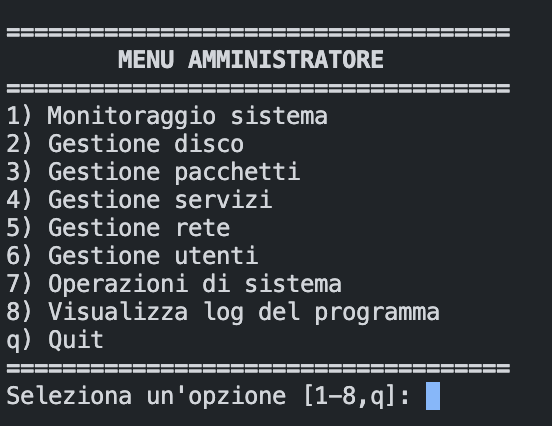
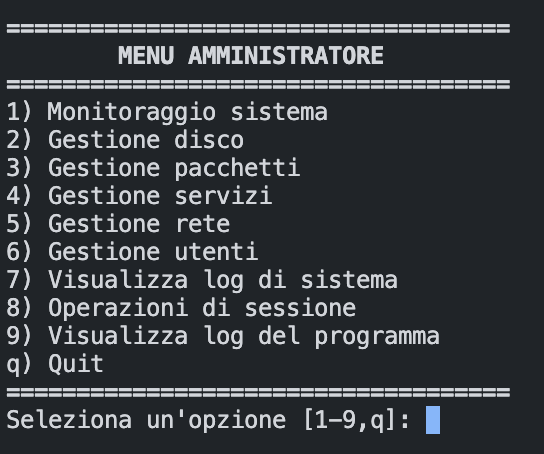
Update Nicola

Changed region(s): [[0.0, 0.0305, 0.9375, 0.8239], [0.0, 0.8545, 0.9375, 0.9765]]

diff --git a/README.md b/README.md
@@ -126,17 +126,23 @@ Le schermate principali includono:
     4) *Visualizza stato rete*: consente di visualizzare lo stato delle interfacce di rete (`netstat`).
     5) *Visualizza servizi attivi*: consente di visualizzare i servizi attivi e il loro stato (`systemctl list-units --type=service --state=running --no-pager`).
     6) *Visualizza utenti connessi*: consente di visualizzare gli utenti connessi al sistema (`who`).
-- `operazioni_di_sistema.bash`: Schermata per le operazioni di sistema, che consente di eseguire operazioni come il riavvio, lo spegnimento e la gestione dei file di log.
-    1) *Visualizza log sistema*: consente di visualizzare i log di sistema (`tail -f /var/log/syslog`).
-    2) *Visualizza log accesso*: consente di visualizzare i log degli accessi al sistema (`tail -f /var/log/auth.log`).
-    3) *Visualizza log errori*: consente di visualizzare i log degli errori del sistema (`tail -f /var/log/kern.log`).
-    4) *Visualizza log sicurezza*: consente di visualizzare i log di sicurezza del sistema (`tail -f /var/log/secure`).
-    5) *Visualizza log rete*: consente di visualizzare i log della rete (`tail -n 50 /var/log/messages`).
-    6) *Visualizza log pacchetti*: consente di visualizzare i log dei pacchetti (`tail -n 50 /var/log/apt/history.log`).
-    7) *Visualizza log applicazioni*: consente di visualizzare i log delle applicazioni (`tail -n 50 /var/log/daemon.log`).
-    8) *Spegni/riavvia sistema*: consente di spegnere o riavviare il sistema:
-        - Spegnimento: `shutdown`
-        - Riavvio: `shutdown`
+- `operazioni_di_sistema.bash`: Schermata per le operazioni di sistema, che consente di eseguire operazioni come il riavvio, lo spegnimento e la gestione dei file di log. Si suddivide in due sezioni:
+    - *operazioni di log*: consente di visualizzare i log di sistema e degli accessi, con la possibilità di filtrare per tipo di log.
+        1) *Visualizza log sistema*: consente di visualizzare i log di sistema (`tail -f /var/log/syslog`).
+        2) *Visualizza log accesso*: consente di visualizzare i log degli accessi al sistema (`tail -f /var/log/auth.log`).
+        3) *Visualizza log kernel*: consente di visualizzare i log degli errori del sistema (`tail -f /var/log/kern.log`).
+        4) *Visualizza log sicurezza*: consente di visualizzare i log di sicurezza del sistema (`tail -f /var/log/secure`).
+        5) *Visualizza log rete*: consente di visualizzare i log della rete (`tail -n 50 /var/log/messages`).
+        6) *Visualizza log pacchetti*: consente di visualizzare i log dei pacchetti (`tail -n 50 /var/log/apt/history.log`).
+        7) *Visualizza log applicazioni*: consente di visualizzare i log delle applicazioni (`tail -n 50 /var/log/daemon.log`).
+    - *operazioni di sistema*: consente di eseguire operazioni di spegnimento e riavvio del sistema.
+        1) *Spegni sistema*: consente di spegnere il sistema (`shutdown now`).
+        2) *Riavvia sistema*: consente di riavviare il sistema (`reboot`).
+        3) *Sospendi sistema*: consente di sospendere il sistema (`systemctl suspend`).
+        4) *Iberna sistema*: consente di ibernare il sistema (`systemctl hibernate`).
+        5) *Sospendi e iberna sistema*: consente di sospendere e ibernare il sistema (`systemctl hybrid-sleep`).
+        6) *Blocca sessione*: consente di bloccare il sistema (`loginctl lock-session`).
+        7) *Disconnetti utente corrente*: consente di disconnettere l'utente corrente (`loginctl --terminate-user`).
 
 ## **Esecuzione script**
 
@@ -155,6 +161,7 @@ Pacchetti utilizzati all'interno del programma:
 - `ifconfig`: Per visualizzare e configurare le interfacce di rete.
 - `iftop`: Per monitorare il traffico di rete in tempo reale.
 - `ip`: Per visualizzare e configurare le interfacce di rete.
+- `loginctl`: Per gestire le sessioni degli utenti e le operazioni di sistema.
 - `mkfs.ext4`: Per formattare le partizioni in ext4.
 - `netstat`: Per visualizzare le connessioni di rete.
 - `ping`: Per testare la connettività di rete.
@@ -175,7 +182,7 @@ Assicurarsi di avere installato i seguenti pacchetti sul sistema:
 ```bash
 sudo apt update
 sudo apt upgrade
-sudo apt install -y apt bash cut chage chmod chpasswd df fdisk free fsck ifconfig iftop ip mkfs.ext4 netstat ping reboot rsync systemctl shutdown tail top ufw useradd userdel usermod who
+sudo apt install -y apt bash cut chage chmod chpasswd df fdisk free fsck ifconfig iftop ip mkfs.ext4 netstat ping reboot rsync systemctl shutdown tail top ufw useradd userdel usermod who loginctl
 ```
 Questi pacchetti sono generalmente preinstallati su molte distribuzioni Linux, ma è sempre meglio verificarne la presenza.
 
@@ -227,8 +234,10 @@ Sono inclusi alcuni screenshot del programma in esecuzione per fornire una panor
 ![Menu gestione servizi](screenshot/output/gestione_servizi.png)
 ### **Screenshot schermate gestione utenti**
 ![Menu gestione utenti](screenshot/output/gestione_utenti.png)
-### **Screenshot schermata operazioni di sistema**
-![Menu operazioni di sistema](screenshot/output/operazioni_di_sistema.png)
+### **Screenshot schermata operazioni di sessione**
+![Menu operazioni di sessione](screenshot/output/operazioni_sessione.png)
+### **Screenshot schermata operazioni di log**
+![Menu operazioni di log](screenshot/output/operazioni_log.png)
 ### **Screenshot schermata monitoraggio**
 ![Menu monitoraggio](screenshot/output/monitoraggio.png)
 ### **Screenshot schermata visualizzazione log**
@@ -237,3 +246,5 @@ Sono inclusi alcuni screenshot del programma in esecuzione per fornire una panor
 ![Menu uscita](screenshot/output/exit.png)
 ### **Screenshot schermata manuale**
 ![Menu manuale](screenshot/output/manuale.png)
+### **Schermata di assenza di permessi**
+![Schermata di assenza di permessi](screenshot/output/permessi.png)
